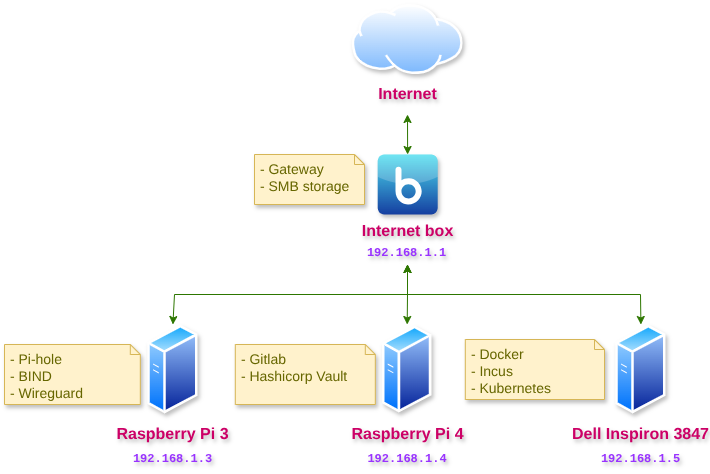
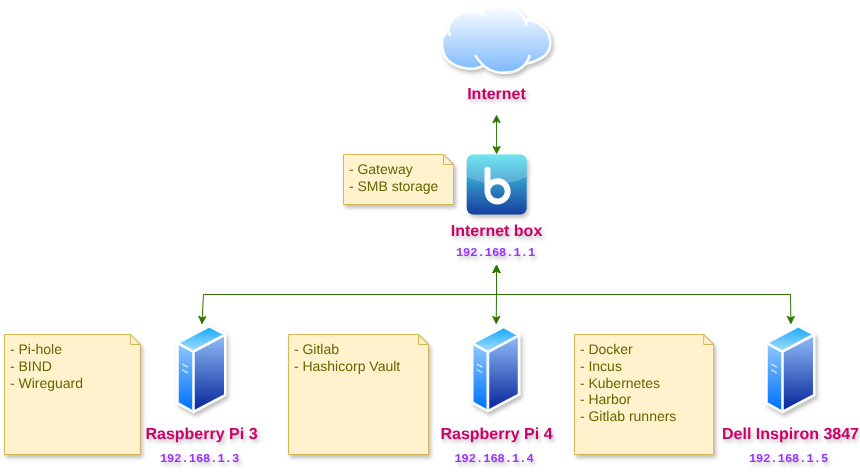
Add first Gitlab runner.

diff --git a/docs/gitlab.md b/docs/gitlab.md
@@ -33,3 +33,32 @@ COMPRESS_CMD="gzip -c --best" sudo gitlab-backup create
 
 # @see https://docs.gitlab.com/administration/backup_restore/backup_gitlab/?tab=Linux+package+%28Omnibus%29#upload-to-locally-mounted-shares
 ```
+
+
+## Runners
+
+For now only one runner has been configured on the Inspiron-3847 machine.
+
+The registration has been manually done (i.e. manually executing commands on the machine) following the [Register with a runner authentication token](https://docs.gitlab.com/runner/register/#register-with-a-runner-authentication-token).
+
+* Use of the _deprecated_ instance runner Registration Token (see [Register with a runner registration token](https://docs.gitlab.com/runner/register/#register-with-a-runner-registration-token-deprecated))
+* Executor is `docker`
+* Docker image is `python:latest`
+* Tags `default`
+
+
+!!! info "Local runner"
+
+    It is possible to have a local runner on the machine of the user to have more power for CI/CD jobs. This is not yet implemented but it is on the roadmap.
+
+
+## File `~/.gitconfig`
+
+For now only the `root` user has been created, a PAT named `git` allows to use Git in HTTPs without asking for credentials every time.
+
+The configuration of the `~/.gitconfig` file is like the following:
+
+```ini
+[url "https://root:xxxxxxxx@gitlab.homelab.internal"]
+  insteadOf = https://gitlab.homelab.internal
+```
